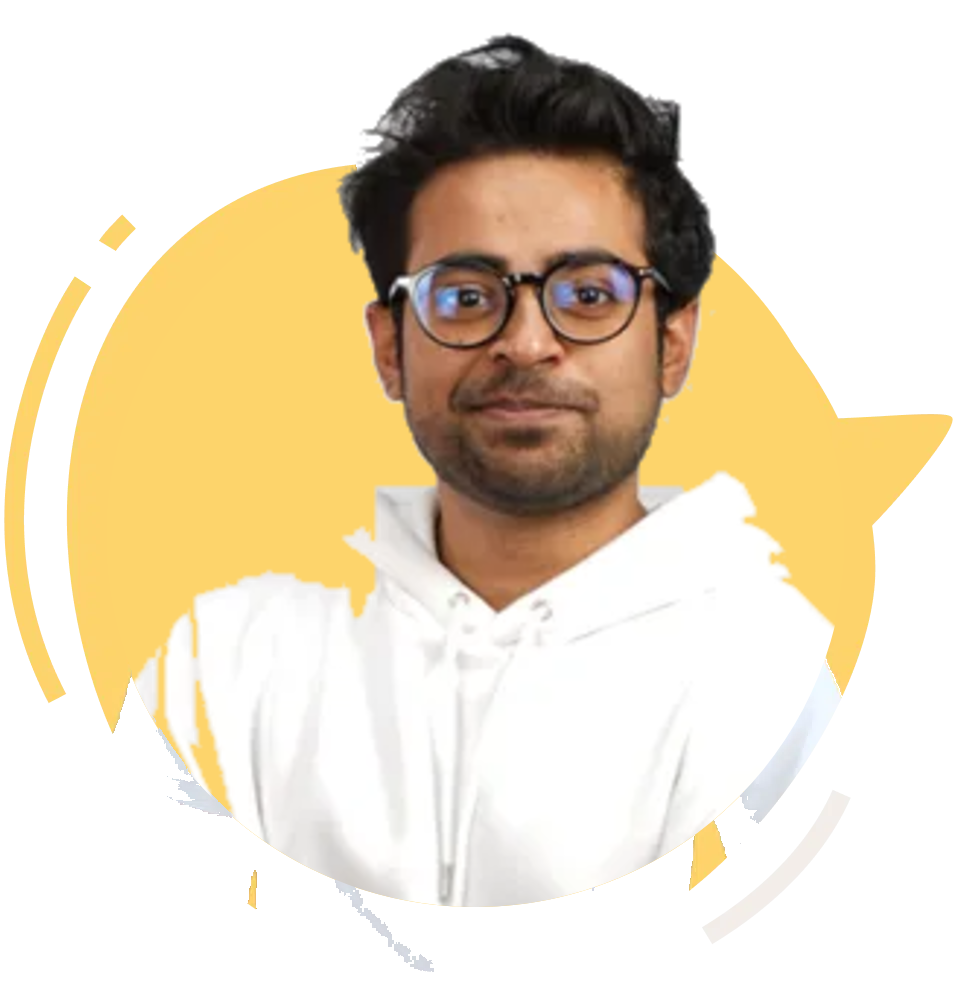
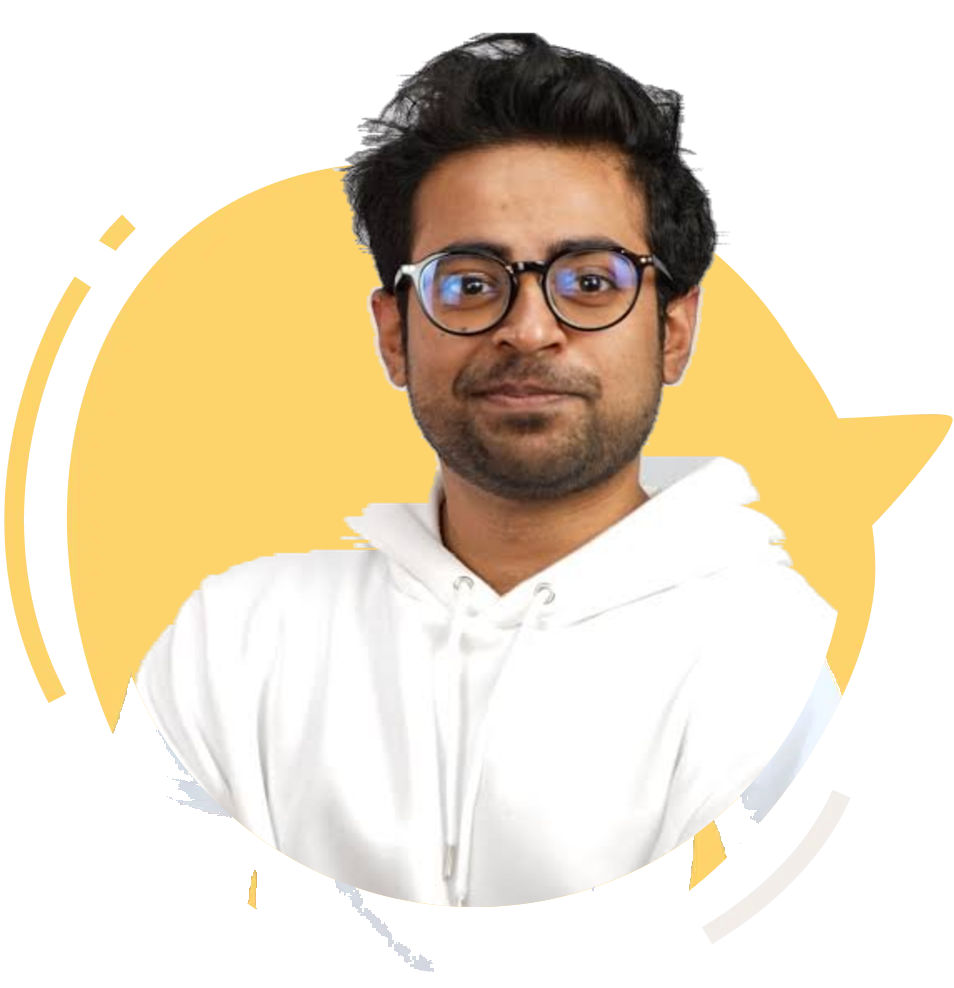
feat: Replace founder images with newly provided high-resolution portrait in Hero and AboutStory sections

diff --git a/components/AboutStory.tsx b/components/AboutStory.tsx
@@ -77,7 +77,7 @@ export default function AboutStory() {
             <div className="relative w-full max-w-[420px] aspect-[4/5] rounded-[32px] overflow-hidden border border-[#ECE5E1] bg-white shadow-sm hover:shadow-md transition-all duration-300">
               <div className="absolute inset-0 bg-gradient-to-t from-[#F9F6F3]/40 via-transparent to-transparent z-10" />
               <Image
-                src="/assets/khalid-320.webp"
+                src="/assets/khalid-portrait.jpg"
                 alt="Khalid Farhan"
                 fill
                 priority

diff --git a/app/about/page.tsx b/app/about/page.tsx
@@ -62,7 +62,7 @@ export default function AboutPage() {
               <div className="lg:col-span-5 flex justify-center">
                 <div className="relative w-64 h-80 rounded-[28px] overflow-hidden border border-[#ECE5E1] bg-[#F9F6F3]">
                   <Image
-                    src="/assets/khalid-320.webp"
+                    src="/assets/khalid-portrait.jpg"
                     alt="Khalid Farhan"
                     fill
                     className="object-cover"
